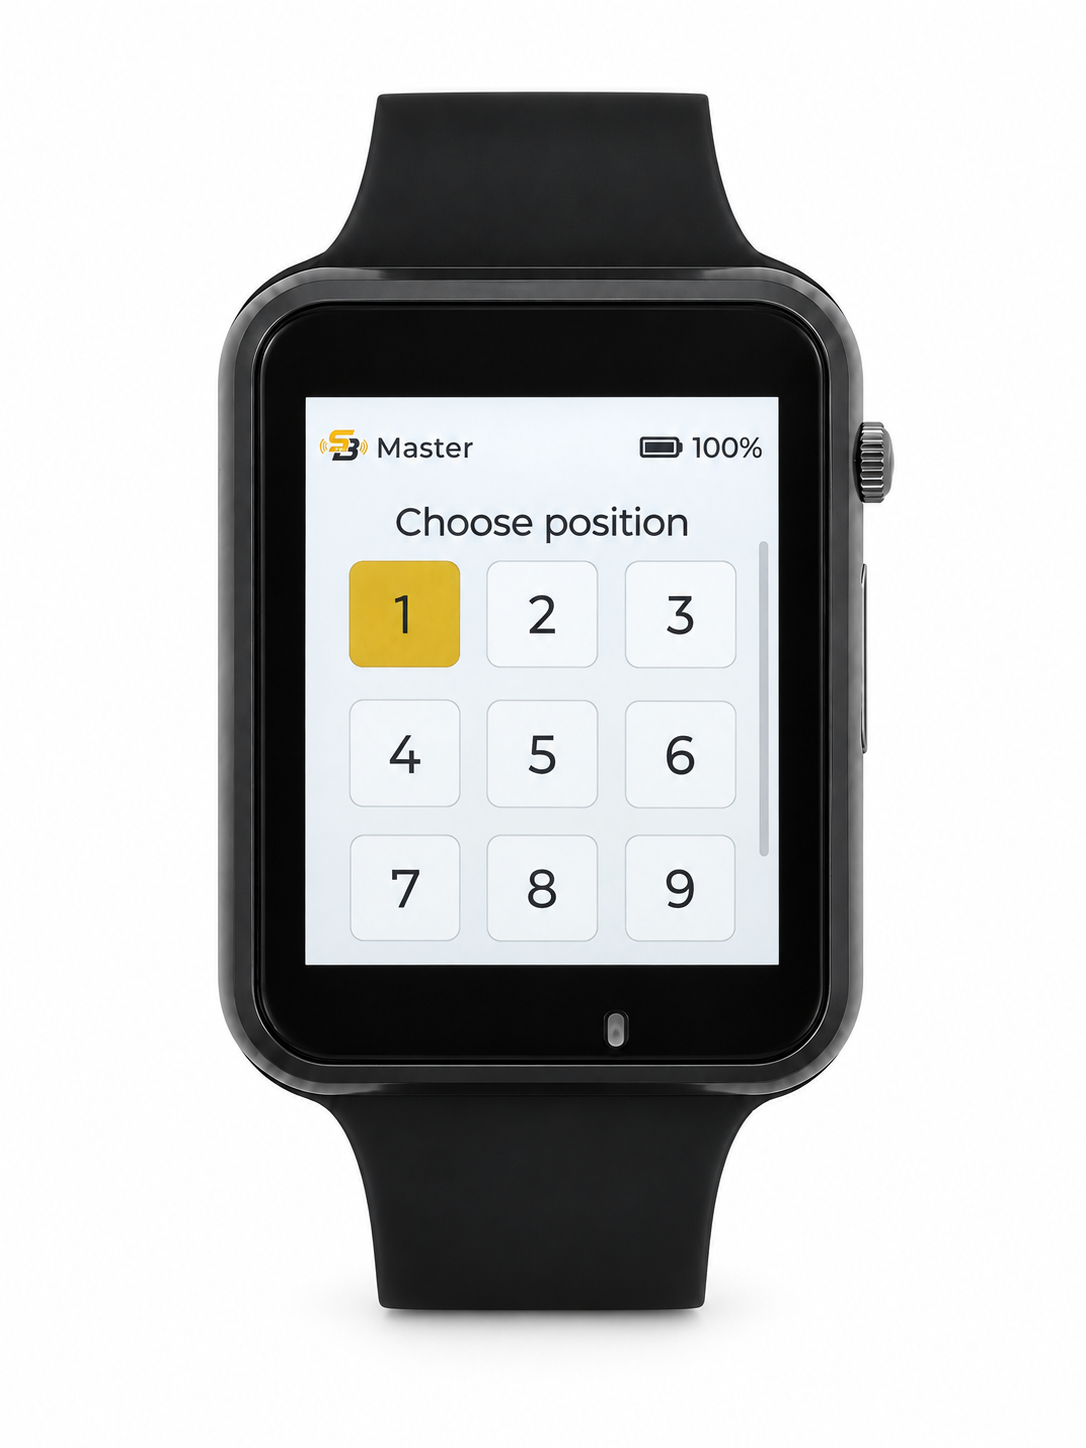
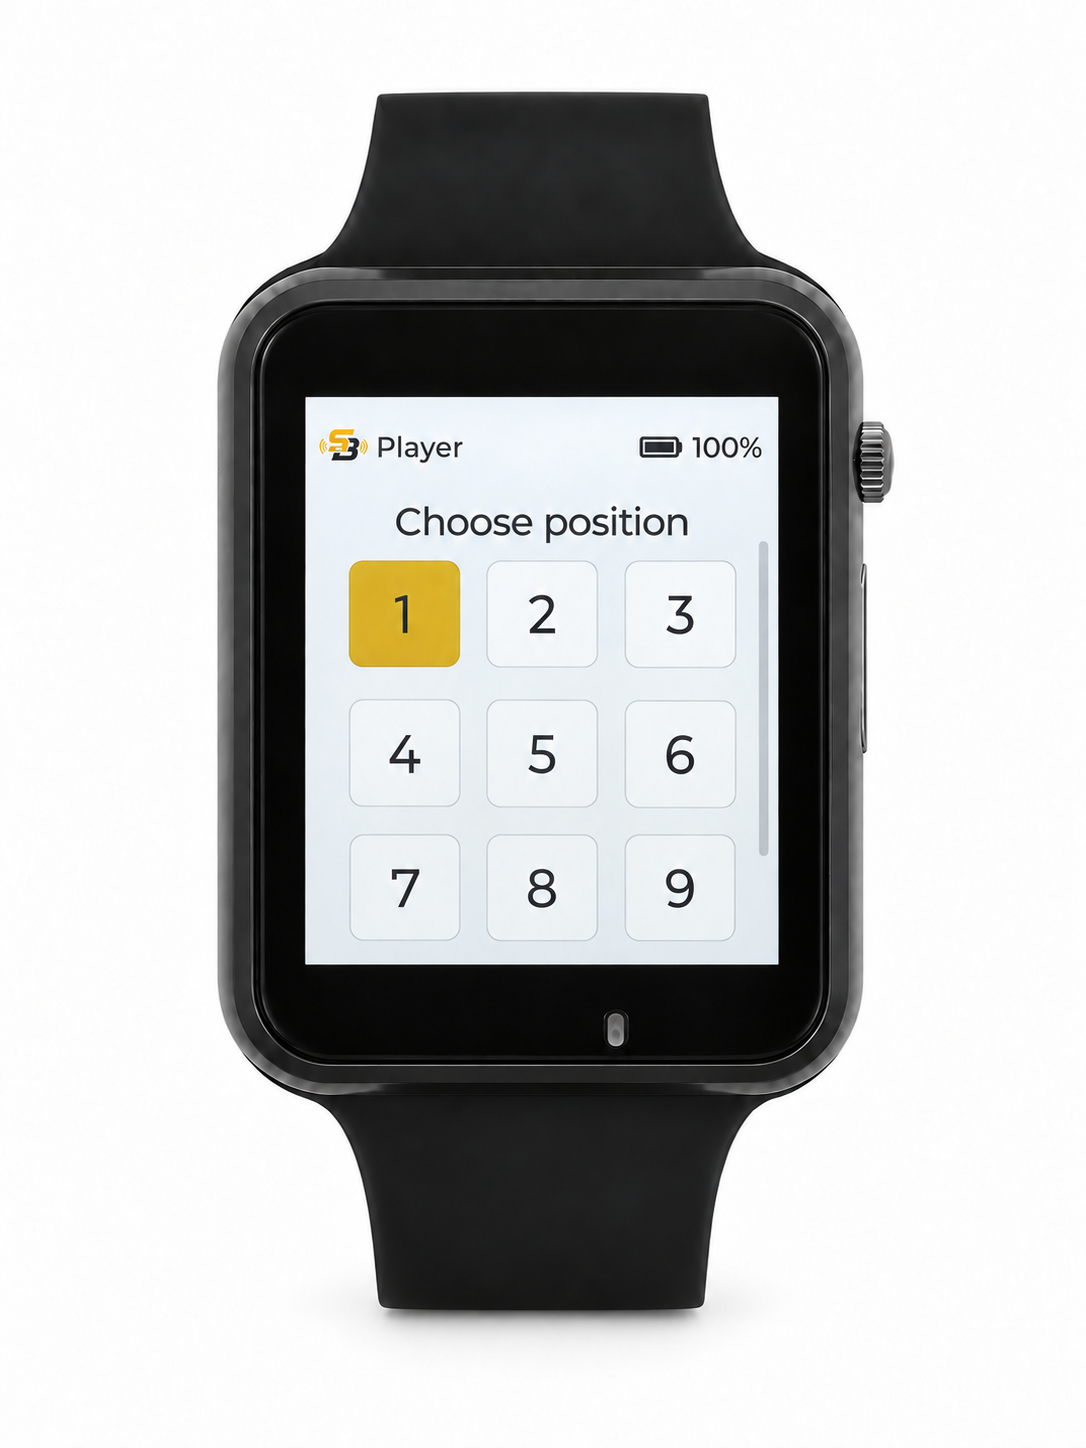
updated master to coach and changed verbiage

diff --git a/index.html b/index.html
@@ -174,7 +174,7 @@
         <article>
           <span>1</span>
           <h3>Connect</h3>
-          <p>The coach connects a phone to the SignalBand master device and can be ready to call pitches within 1 minute.</p>
+          <p>The coach connects a phone to the SignalBand coach device and can be ready to call pitches within 1 minute.</p>
         </article>
         <article>
           <span>2</span>
@@ -238,7 +238,7 @@
       <div class="watch-copy">
         <p class="eyebrow">Player wrist display</p>
         <h2>The call is clear the moment it hits the wrist.</h2>
-        <p>Choose Master or Player mode on startup, then select a player position from 1 to 9 on each watch. From the phone, the coach can send calls to specific players or all players. Each selected wrist display shows the call clearly.</p>
+        <p>Choose Coach or Player mode on startup, then select a player position from 1 to 9 on each watch. From the phone, the coach can send calls to specific players or all players. Each selected wrist display shows the call clearly.</p>
       </div>
       <div class="watch-grid">
         <figure class="watch-card">
@@ -246,8 +246,8 @@
           <figcaption>Private team signal</figcaption>
         </figure>
         <figure class="watch-card">
-          <img src="watch-selection-screen.png" alt="SignalBand watch setup screen showing Master and Player buttons">
-          <figcaption>Master or Player startup</figcaption>
+          <img src="watch-selection-screen.png" alt="SignalBand watch setup screen showing Coach and Player buttons">
+          <figcaption>Coach or Player startup</figcaption>
         </figure>
         <figure class="watch-card">
           <img src="watch-player-selection.png" alt="SignalBand watch player selection screen with positions 1 through 9 and position 1 selected" width="1086" height="1448" loading="lazy">
@@ -270,7 +270,7 @@
         <li>Encrypted team-key communication</li>
         <li>No annual software subscription</li>
         <li>Preset and custom calls</li>
-        <li>Master and player watch modes</li>
+        <li>Coach and player watch modes</li>
         <li>Send to specific players or all players</li>
         <li>Local setup for each team</li>
       </ul>

diff --git a/faq.html b/faq.html
@@ -120,15 +120,15 @@
           </article>
           <article class="faq-item">
             <h3>What is the best way to sync setup changes to player watches?</h3>
-            <p>Turn all player watches on in Player mode first. Then turn on the Master watch, make the setup changes, tap Save and Restart, put the Master back in Master mode, select position 1, and let the settings sync to the player watches.</p>
+            <p>Turn on the Coach watch first, open the setup screen, make your changes, then tap Save and Restart. Once the Coach watch restarts and is back in Coach mode, turn on the player watches in Player mode. Open the app, tap Sync at the top, and the Coach watch will send the updated setup to the player watches.</p>
           </article>
           <article class="faq-item">
             <h3>Can more than one coach connect?</h3>
-            <p>Yes. Multiple coaches can connect to the Master watch. One coach can call pitches while another coach sends messages or talks specifically to infielders, outfielders, or selected positions.</p>
+            <p>Yes. Multiple coaches can connect to the Coach watch. One coach can call pitches while another coach sends messages or talks specifically to infielders, outfielders, or selected positions.</p>
           </article>
           <article class="faq-item">
             <h3>Does the system need internet or cell service?</h3>
-            <p>No. The Master watch creates its own local Wi-Fi network. A coach connects a phone to that network and uses the web app hosted by the watch.</p>
+            <p>No. The Coach watch creates its own local Wi-Fi network. A coach connects a phone to that network and uses the web app hosted by the watch.</p>
           </article>
         </div>
       </article>

diff --git a/demo.html b/demo.html
@@ -55,7 +55,7 @@
       <article class="demo-video-card">
         <div class="demo-video-copy">
           <h2>Initial Setup</h2>
-          <p>First-time setup for one watch: power on, select Master and Player 1, connect your phone to the default PitchCall Wi-Fi network, set the System ID and Team Key for encryption, then Save and Restart. After the watch reboots, power it off and repeat the same process for each watch.</p>
+          <p>First-time setup for one watch: power on, select Coach or Player 1, connect your phone to the default PitchCall Wi-Fi network, set the System ID and Team Key for encryption, then Save and Restart. After the watch reboots, power it off and repeat the same process for each watch.</p>
         </div>
         <div class="demo-video-frame">
           <video controls preload="metadata" playsinline poster="videos/initial-setup-poster.jpg">

diff --git a/pricing.html b/pricing.html
@@ -106,7 +106,7 @@
         <p class="price-note">A strong fit for middle school and high school baseball or softball teams.</p>
         <ul>
           <li>SignalBand watch loaded with team software</li>
-          <li>Master or Player mode</li>
+          <li>Coach or Player mode</li>
           <li>Charging cable included</li>
           <li>Rugged waterproof carrying case included with software and watch purchase</li>
           <li>Simple wrist display for clear calls</li>
